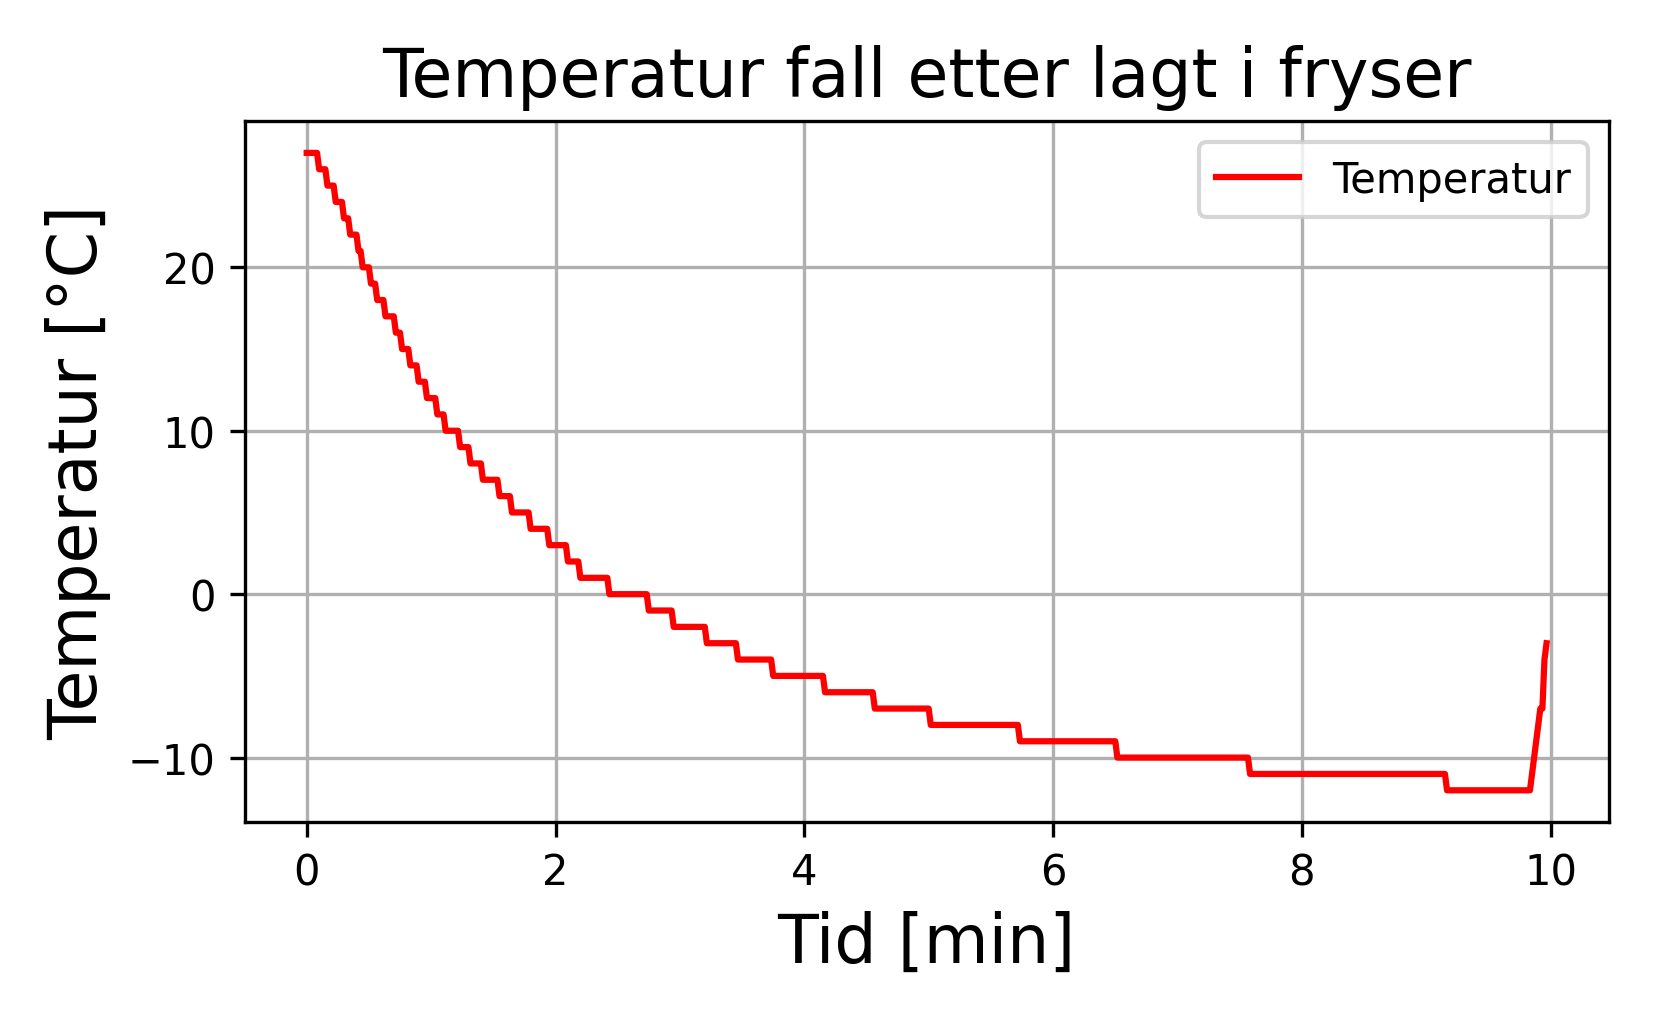
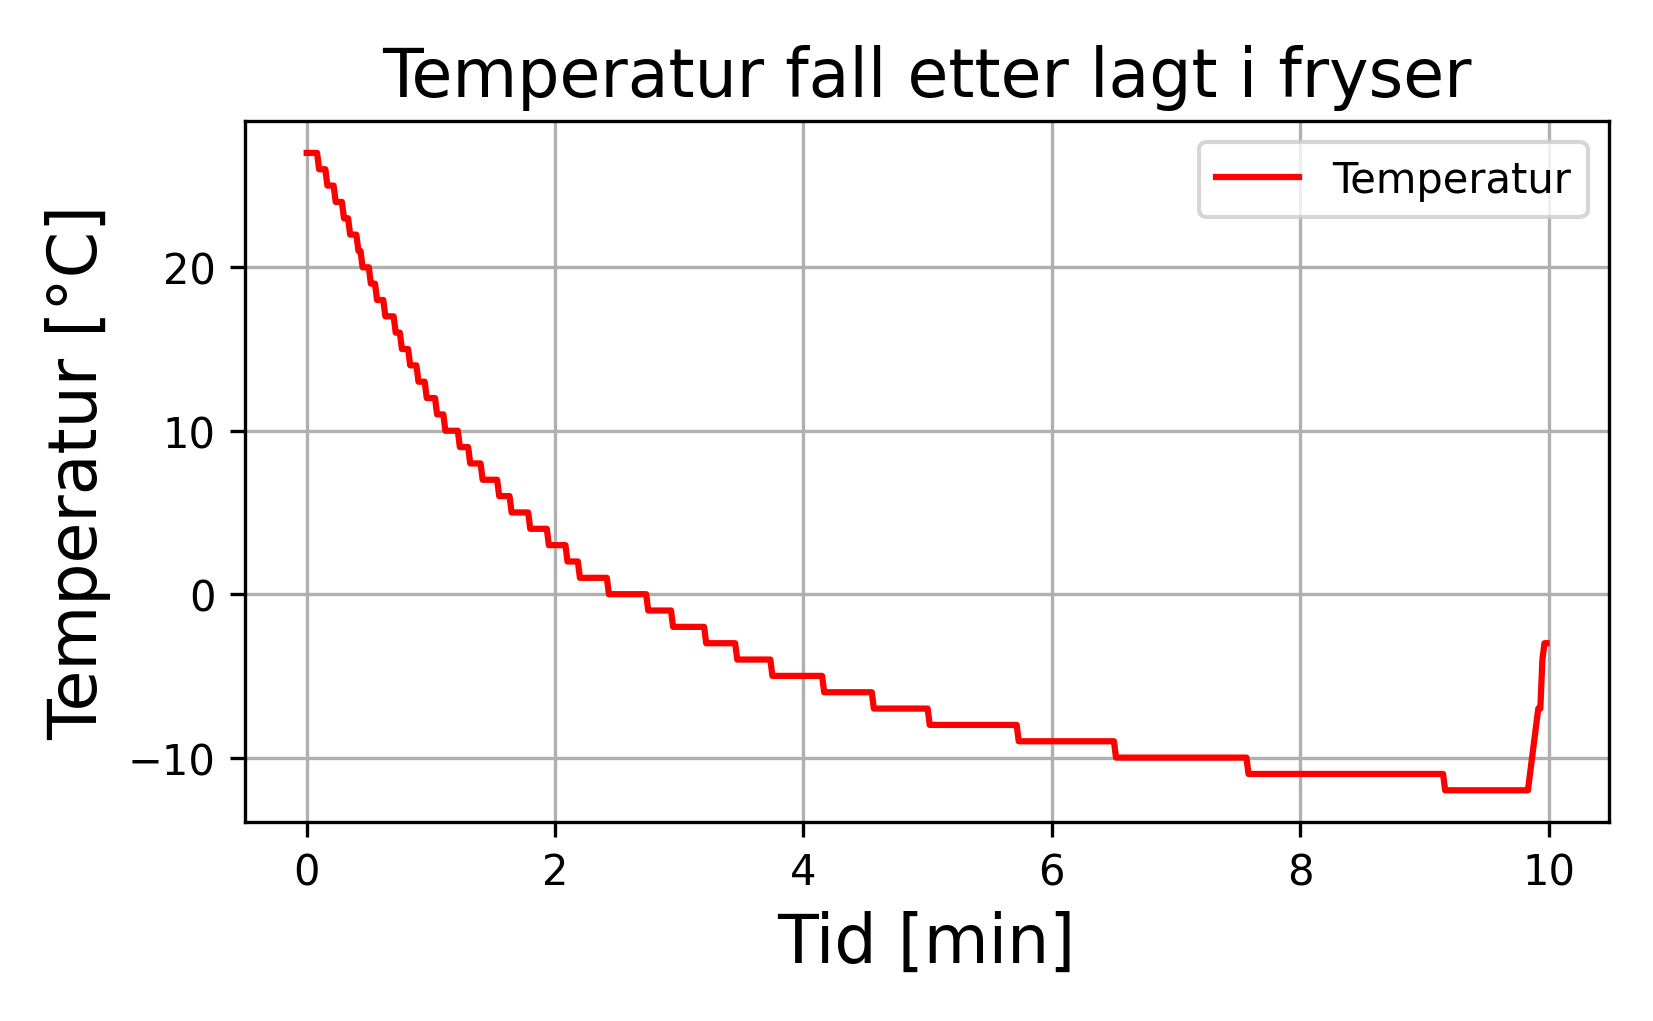
small fixes

Changed region(s): [[0.9256, 0.6376, 0.9564, 0.7894], [0.9256, 0.8198, 0.9564, 0.8805], [0.6171, 0.8501, 0.6479, 0.8805]]

diff --git a/øving 5/main.py b/øving 5/main.py
@@ -1,23 +1,26 @@
 from microbit import *
 import time
-
+# import os
 
 
 while True:
     logg = True 
     display.scroll ("Press A to start logging", delay = 75)
+    time.sleep_ms(500)
     if button_a.was_pressed():
-        with open("temperature.txt", "w") as f:
+        writepath = "./temerature.txt"
+        # mode = "a" if os.path.exists(writepath) else "w"
+        mode = "w"
+        with open(writepath, mode) as f:
             while logg:
                 currentTemp = temperature()
                 f.write(str(currentTemp) + "\n")
                 print((currentTemp,))
+                time.sleep_ms(500)
                 display.clear()
-                # start = time.ticks_ms()
-                # while(time.ticks_diff(time.ticks_ms(), start) < 1000 ):
-                time.sleep_ms(1000)
+                time.sleep_ms(500)
+                display.show(Image.SQUARE_SMALL)
                 if button_a.was_pressed():
                     logg = False
-                display.show(Image.SQUARE_SMALL)
         display.show(Image.YES)
         time.sleep_ms(1000)

diff --git a/øving 5/plotter.py b/øving 5/plotter.py
@@ -1,5 +1,6 @@
-import numpy as np
 import matplotlib.pyplot as plt
+import numpy as np
+
 
 data = []
 
@@ -11,15 +12,14 @@ with open("./temperature_10min.txt" , "r" ) as f:
 
 in_to_cm = 1/2.54
 
-fig_size = 14 * np.array([1, 1])
-
-
-fig_size = 14*np.array( [1, 1/1.618] )*in_to_cm 
+fig_size = 14 * np.array( [1, 1/1.618] ) * in_to_cm
 t = np.array(range(0, len(data)))/ 60
 
 fig = plt.figure(dpi = 300, figsize=fig_size)
 
 plt.grid()
+
+
 plt.plot(t,data, c="red", label="Temperatur")
 plt.xlabel("Tid [min]", fontsize = 16)
 plt.ylabel("Temperatur [\u00b0C]", fontsize = 16)
@@ -28,4 +28,5 @@ plt.legend()
 plt.tight_layout()
 plt.savefig("Temperatureplot.png", dpi = 300)
 plt.show()
+
 
